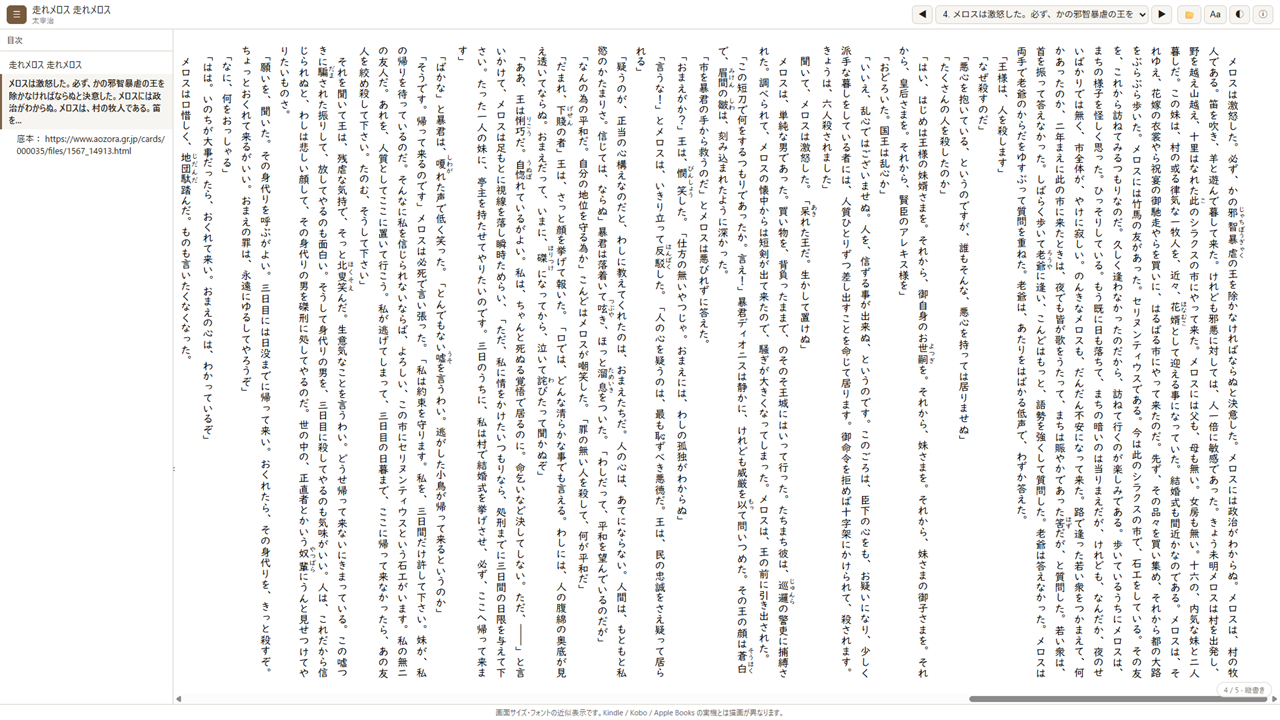
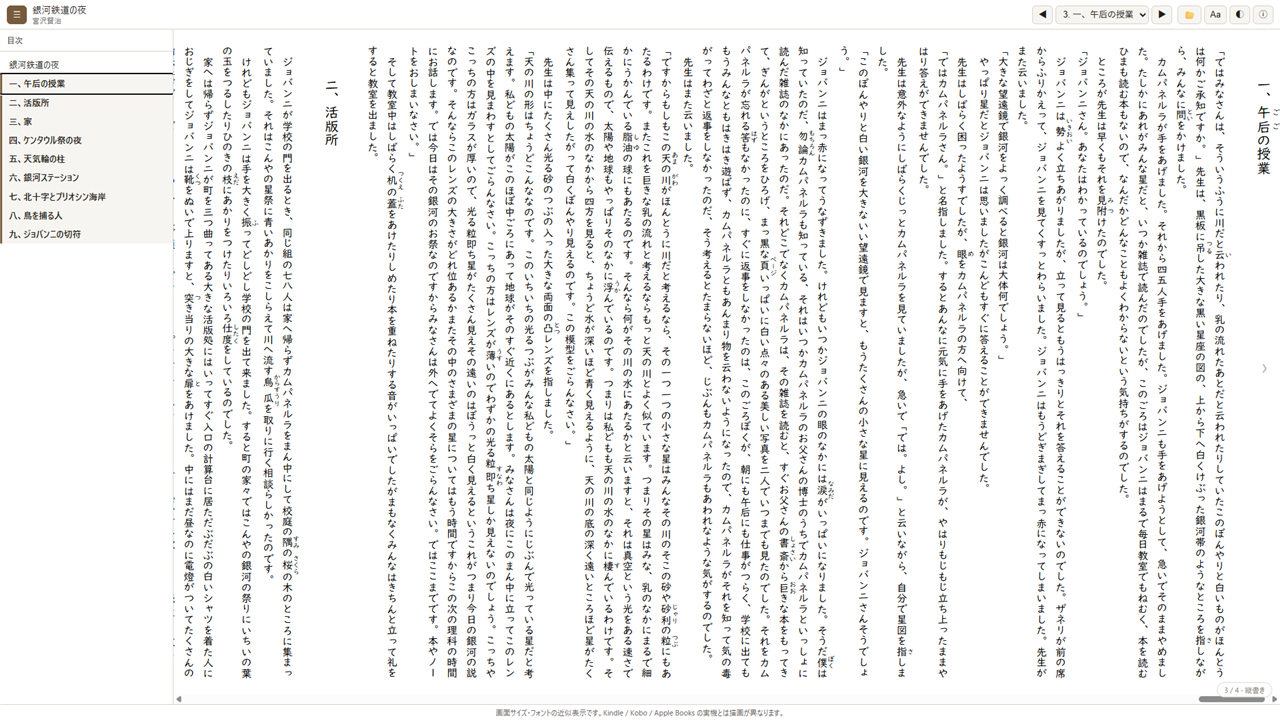
docs: スクリーンショットを差し替え、README のレイアウトを直す
ゲート C (Fable) の指摘対応:

- プレビュー画像の書名が「走れメロス 走れメロス」と二重になっていた。
  青空文庫の HTML ページを変換したためで、正規の zip から変換すると出ない。
  素材を『銀河鉄道の夜』(宮沢賢治、著作権保護期間満了) に変更し、
  目次に表題 + 9 章が並ぶ画面にした。目次・縦書き・ルビ・段組が 1 枚で伝わる
- README でプレビュー画像を幅 420px のセルに押し込んでいて本文が読めなかった。
  表をやめて縦に並べ、プレビューは幅指定なし (コンテナ幅) にした

ゲート B (Opus) の任意指摘対応:

- 配布 zip には README.md が入るが docs/assets/ は入らないため、
  相対パスだと配布物の README で画像がリンク切れになる。
  README のみ GitHub の絶対 URL に変更した (サイト側は相対のまま)
- alt と figcaption が同文だったので alt を具体的な説明に書き分けた

ja / en をセットで更新。

Changed region(s): [[0.0, 0.0611, 1.0, 0.9778], [0.7188, 0.0, 0.9062, 0.0306], [0.0, 0.0, 0.0938, 0.0306]]

diff --git a/docs/index.md b/docs/index.md
@@ -57,17 +57,17 @@ description: AozoraEpub3-JDK21は青空文庫テキストをEPUB 3.3に変換す
 
 <div style="display: flex; flex-wrap: wrap; gap: 1em; justify-content: center; margin: 2em 0;">
   <figure style="flex: 1 1 320px; max-width: 480px; margin: 0;">
-    <img src="assets/screenshot-app.png" alt="AozoraEpub3-JDK21 の変換画面" style="width: 100%; height: auto;">
+    <img src="assets/screenshot-app.png" alt="表題・表紙・ページ出力の設定欄と、ファイルをドロップするテキストエリア" style="width: 100%; height: auto;">
     <figcaption style="text-align: center; font-size: 0.9em;">変換画面（ファイル／URL をドラッグ＆ドロップ）</figcaption>
   </figure>
   <figure style="flex: 1 1 320px; max-width: 480px; margin: 0;">
-    <img src="assets/screenshot-preview.png" alt="変換した EPUB のブラウザプレビュー" style="width: 100%; height: auto;">
-    <figcaption style="text-align: center; font-size: 0.9em;">ブラウザプレビュー（縦書き・ルビ・段組）</figcaption>
+    <img src="assets/screenshot-preview.png" alt="左に章立ての目次、右に縦書き本文が段組で表示されたビューアー" style="width: 100%; height: auto;">
+    <figcaption style="text-align: center; font-size: 0.9em;">ブラウザプレビュー（目次・縦書き・ルビ・段組）</figcaption>
   </figure>
 </div>
 
 変換した EPUB は、リーダーアプリに移す前に**ブラウザでそのままプレビュー**できます。
-画面例は青空文庫の『走れメロス』（太宰治、著作権保護期間満了）を変換したものです。
+画面例は青空文庫の『銀河鉄道の夜』（宮沢賢治、著作権保護期間満了）を変換したものです。
 
 ---
 

diff --git a/README.md b/README.md
@@ -43,14 +43,17 @@
 
 ## 画面
 
-| 変換画面 | プレビュー |
-|---|---|
-| <img src="docs/assets/screenshot-app.png" alt="AozoraEpub3-JDK21 の変換画面" width="420"> | <img src="docs/assets/screenshot-preview.png" alt="変換した EPUB のブラウザプレビュー" width="420"> |
+ファイルまたは URL をドラッグ＆ドロップすると EPUB に変換します。
 
-ファイルまたは URL をドラッグ＆ドロップすると EPUB に変換します。変換した EPUB は
-**ブラウザでそのままプレビュー**できます（縦書き・ルビ・段組を実機に近い形で確認できます）。
+<img src="https://raw.githubusercontent.com/AozoraEpub3-JDK21/AozoraEpub3-JDK21/master/docs/assets/screenshot-app.png" alt="変換画面。表題・表紙・ページ出力などの設定欄と、ファイルをドロップするテキストエリア" width="626">
 
-> プレビューの画面例は青空文庫の『走れメロス』（太宰治、著作権保護期間満了）を変換したものです。
+変換した EPUB は、リーダーアプリに移す前に**ブラウザでそのままプレビュー**できます。
+縦書き・ルビ・段組・目次を実機に近い形で確認できます。
+
+<img src="https://raw.githubusercontent.com/AozoraEpub3-JDK21/AozoraEpub3-JDK21/master/docs/assets/screenshot-preview.png" alt="ブラウザプレビュー。左に章立ての目次、右に縦書き本文が段組で表示されている">
+
+> 画面例は青空文庫の『銀河鉄道の夜』（宮沢賢治、著作権保護期間満了）を変換したものです。
+> 画像は配布パッケージからも参照できるよう GitHub 上の絶対 URL で読み込んでいます。
 
 ---
 

diff --git a/docs/en/index.md b/docs/en/index.md
@@ -54,17 +54,17 @@ See the [release list](https://github.com/AozoraEpub3-JDK21/AozoraEpub3-JDK21/re
 
 <div style="display: flex; flex-wrap: wrap; gap: 1em; justify-content: center; margin: 2em 0;">
   <figure style="flex: 1 1 320px; max-width: 480px; margin: 0;">
-    <img src="../assets/screenshot-app.png" alt="The AozoraEpub3-JDK21 conversion window" style="width: 100%; height: auto;">
+    <img src="../assets/screenshot-app.png" alt="Settings for title, cover and page output, with a drop area for input files" style="width: 100%; height: auto;">
     <figcaption style="text-align: center; font-size: 0.9em;">Conversion window (drag and drop a file or URL)</figcaption>
   </figure>
   <figure style="flex: 1 1 320px; max-width: 480px; margin: 0;">
-    <img src="../assets/screenshot-preview.png" alt="Browser preview of a converted EPUB" style="width: 100%; height: auto;">
-    <figcaption style="text-align: center; font-size: 0.9em;">Browser preview (vertical writing, ruby, multi-column)</figcaption>
+    <img src="../assets/screenshot-preview.png" alt="Viewer with a chapter table of contents on the left and vertical multi-column text on the right" style="width: 100%; height: auto;">
+    <figcaption style="text-align: center; font-size: 0.9em;">Browser preview (table of contents, vertical writing, ruby, multi-column)</figcaption>
   </figure>
 </div>
 
 You can preview a converted EPUB straight in your browser before moving it to a reader app.
-The preview shows *Run, Melos!* by Osamu Dazai from Aozora Bunko (public domain).
+The preview shows *Night on the Galactic Railroad* by Kenji Miyazawa from Aozora Bunko (public domain).
 
 ---
 
